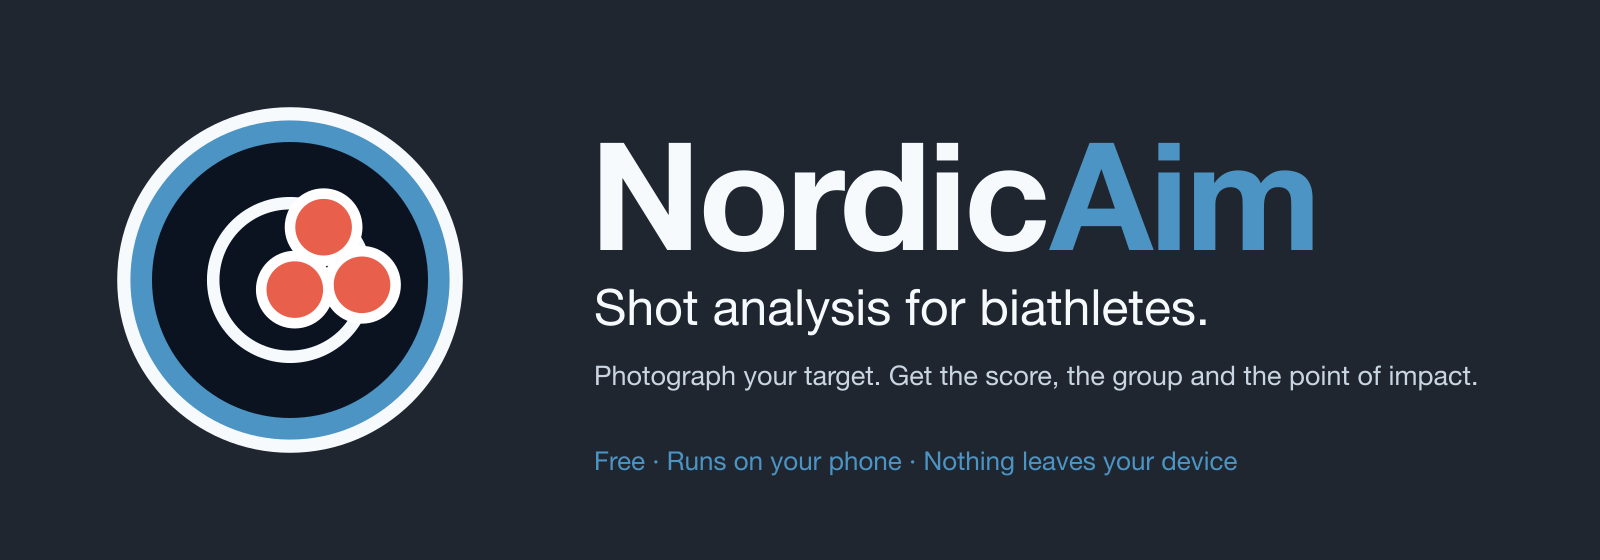
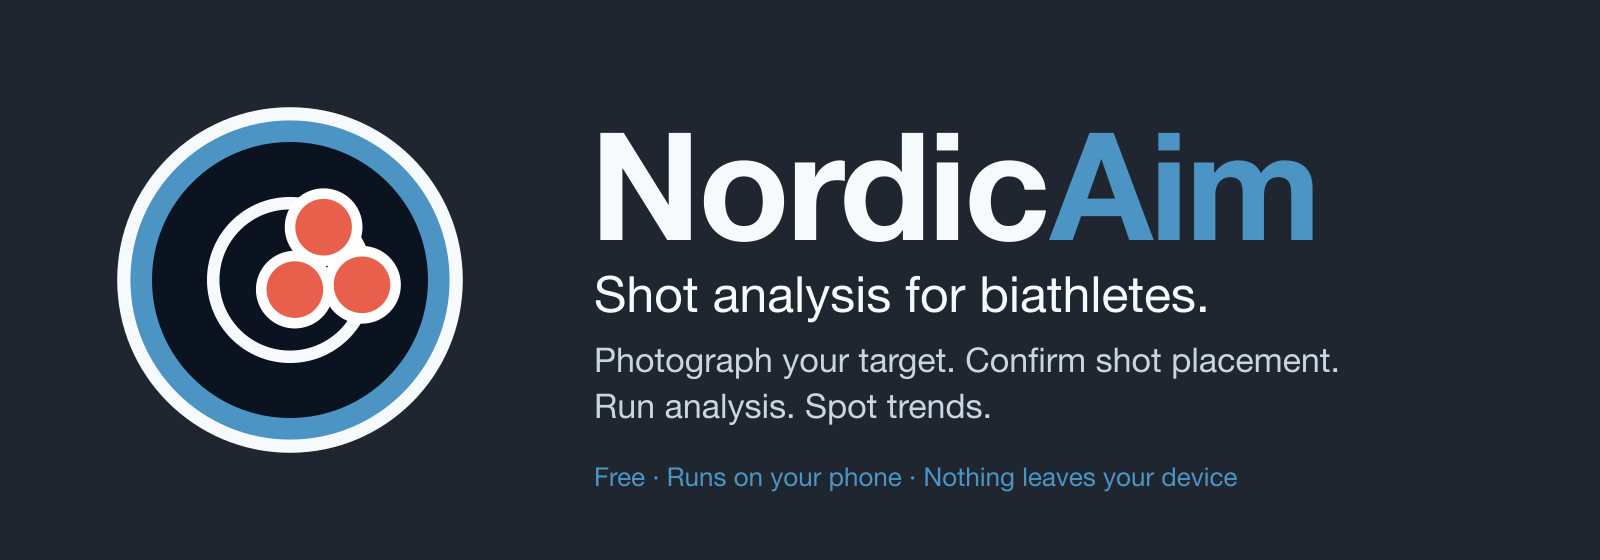
New tag line: Photograph your target. Confirm shot placement. Run analysis. Spot trends.

diff --git a/docs/brand/README.md b/docs/brand/README.md
@@ -14,7 +14,7 @@ NordicAim is a measuring tool for biathletes. It should feel calm, precise and h
 
 **One line.** Shot analysis for biathletes.
 
-**Supporting line.** Photograph your target. Get the score, the group and the point of impact.
+**Supporting line.** Photograph your target. Confirm shot placement. Run analysis. Spot trends.
 
 **Promise line.** Free. Runs on your phone. Nothing leaves your device.
 

diff --git a/README.md b/README.md
@@ -3,7 +3,7 @@
 </p>
 
 <p align="center">
-  <b>Photograph your target. Get the score, the group and the point of impact.</b><br>
+  <b>Photograph your target. Confirm shot placement. Run analysis. Spot trends.</b><br>
   Free. Runs on your iPhone. Nothing leaves your phone.
 </p>
 
